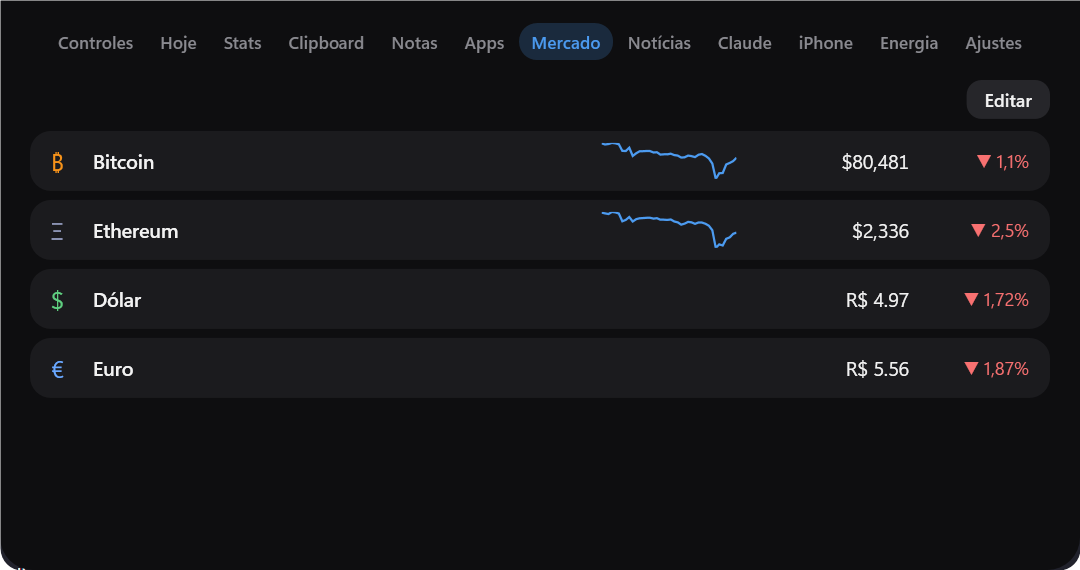
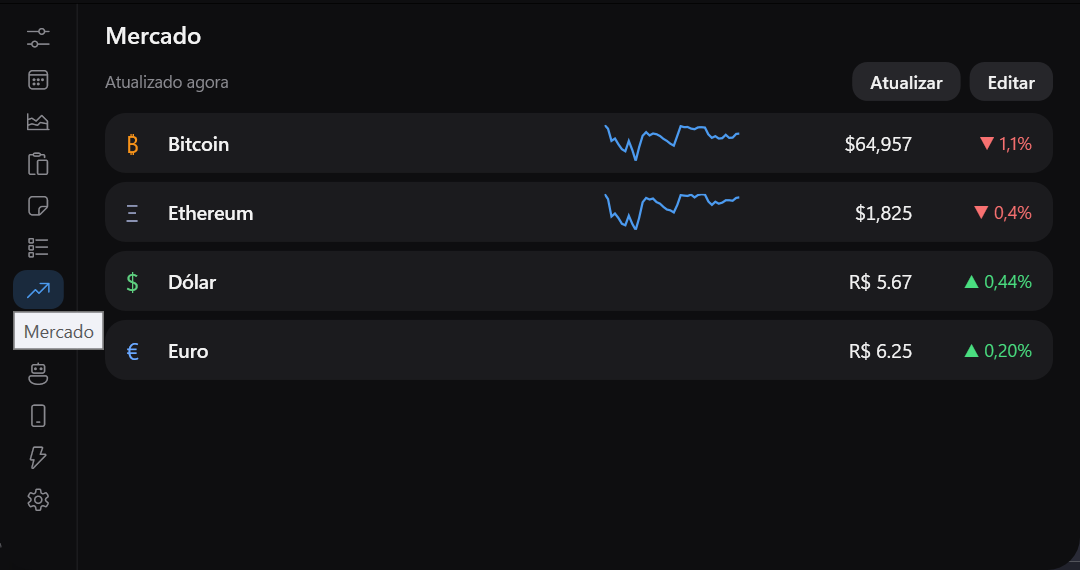
docs: prints novos do painel (trilho, Hoje, Ajustes) no README

diff --git a/README.md b/README.md
@@ -10,7 +10,7 @@ ponte segura com iPhone e iPad.
 ![Testes](https://img.shields.io/badge/checks-850%2B-2ea44f)
 
 <p align="center">
-  <img src="docs/screenshots/controles.png" width="820" alt="Painel expandido na aba Controles: Wi-Fi, Bluetooth, modo escuro, volume e mídia tocando">
+  <img src="docs/screenshots/controles.png" width="820" alt="Painel expandido na aba Controles: trilho de abas, Wi-Fi, Bluetooth, modo escuro, microfone, volume e mídia tocando">
 </p>
 
 Inspirado no [Hitodama](https://hitodama.in). Em repouso é uma pílula preta pequena que não chama atenção;
@@ -20,13 +20,13 @@ Some sozinha em vídeos em tela cheia e, em jogos, vira uma faixa fina com CPU, 
 
 ## Telas
 
-> Os prints abaixo são de antes do trilho de ícones e do novo Ajustes; o layout atual mudou.
-
-| Stats | Mercado |
+| Hoje | Stats |
 |---|---|
-| ![Stats](docs/screenshots/stats.png) | ![Mercado](docs/screenshots/mercado.png) |
-| **Energia** | **Ajustes** |
-| ![Energia](docs/screenshots/energia.png) | ![Ajustes](docs/screenshots/ajustes.png) |
+| ![Hoje](docs/screenshots/hoje.png) | ![Stats](docs/screenshots/stats.png) |
+| **Mercado** | **Energia** |
+| ![Mercado](docs/screenshots/mercado.png) | ![Energia](docs/screenshots/energia.png) |
+| **Ajustes** | |
+| ![Ajustes](docs/screenshots/ajustes.png) | |
 
 ## O que faz
 
